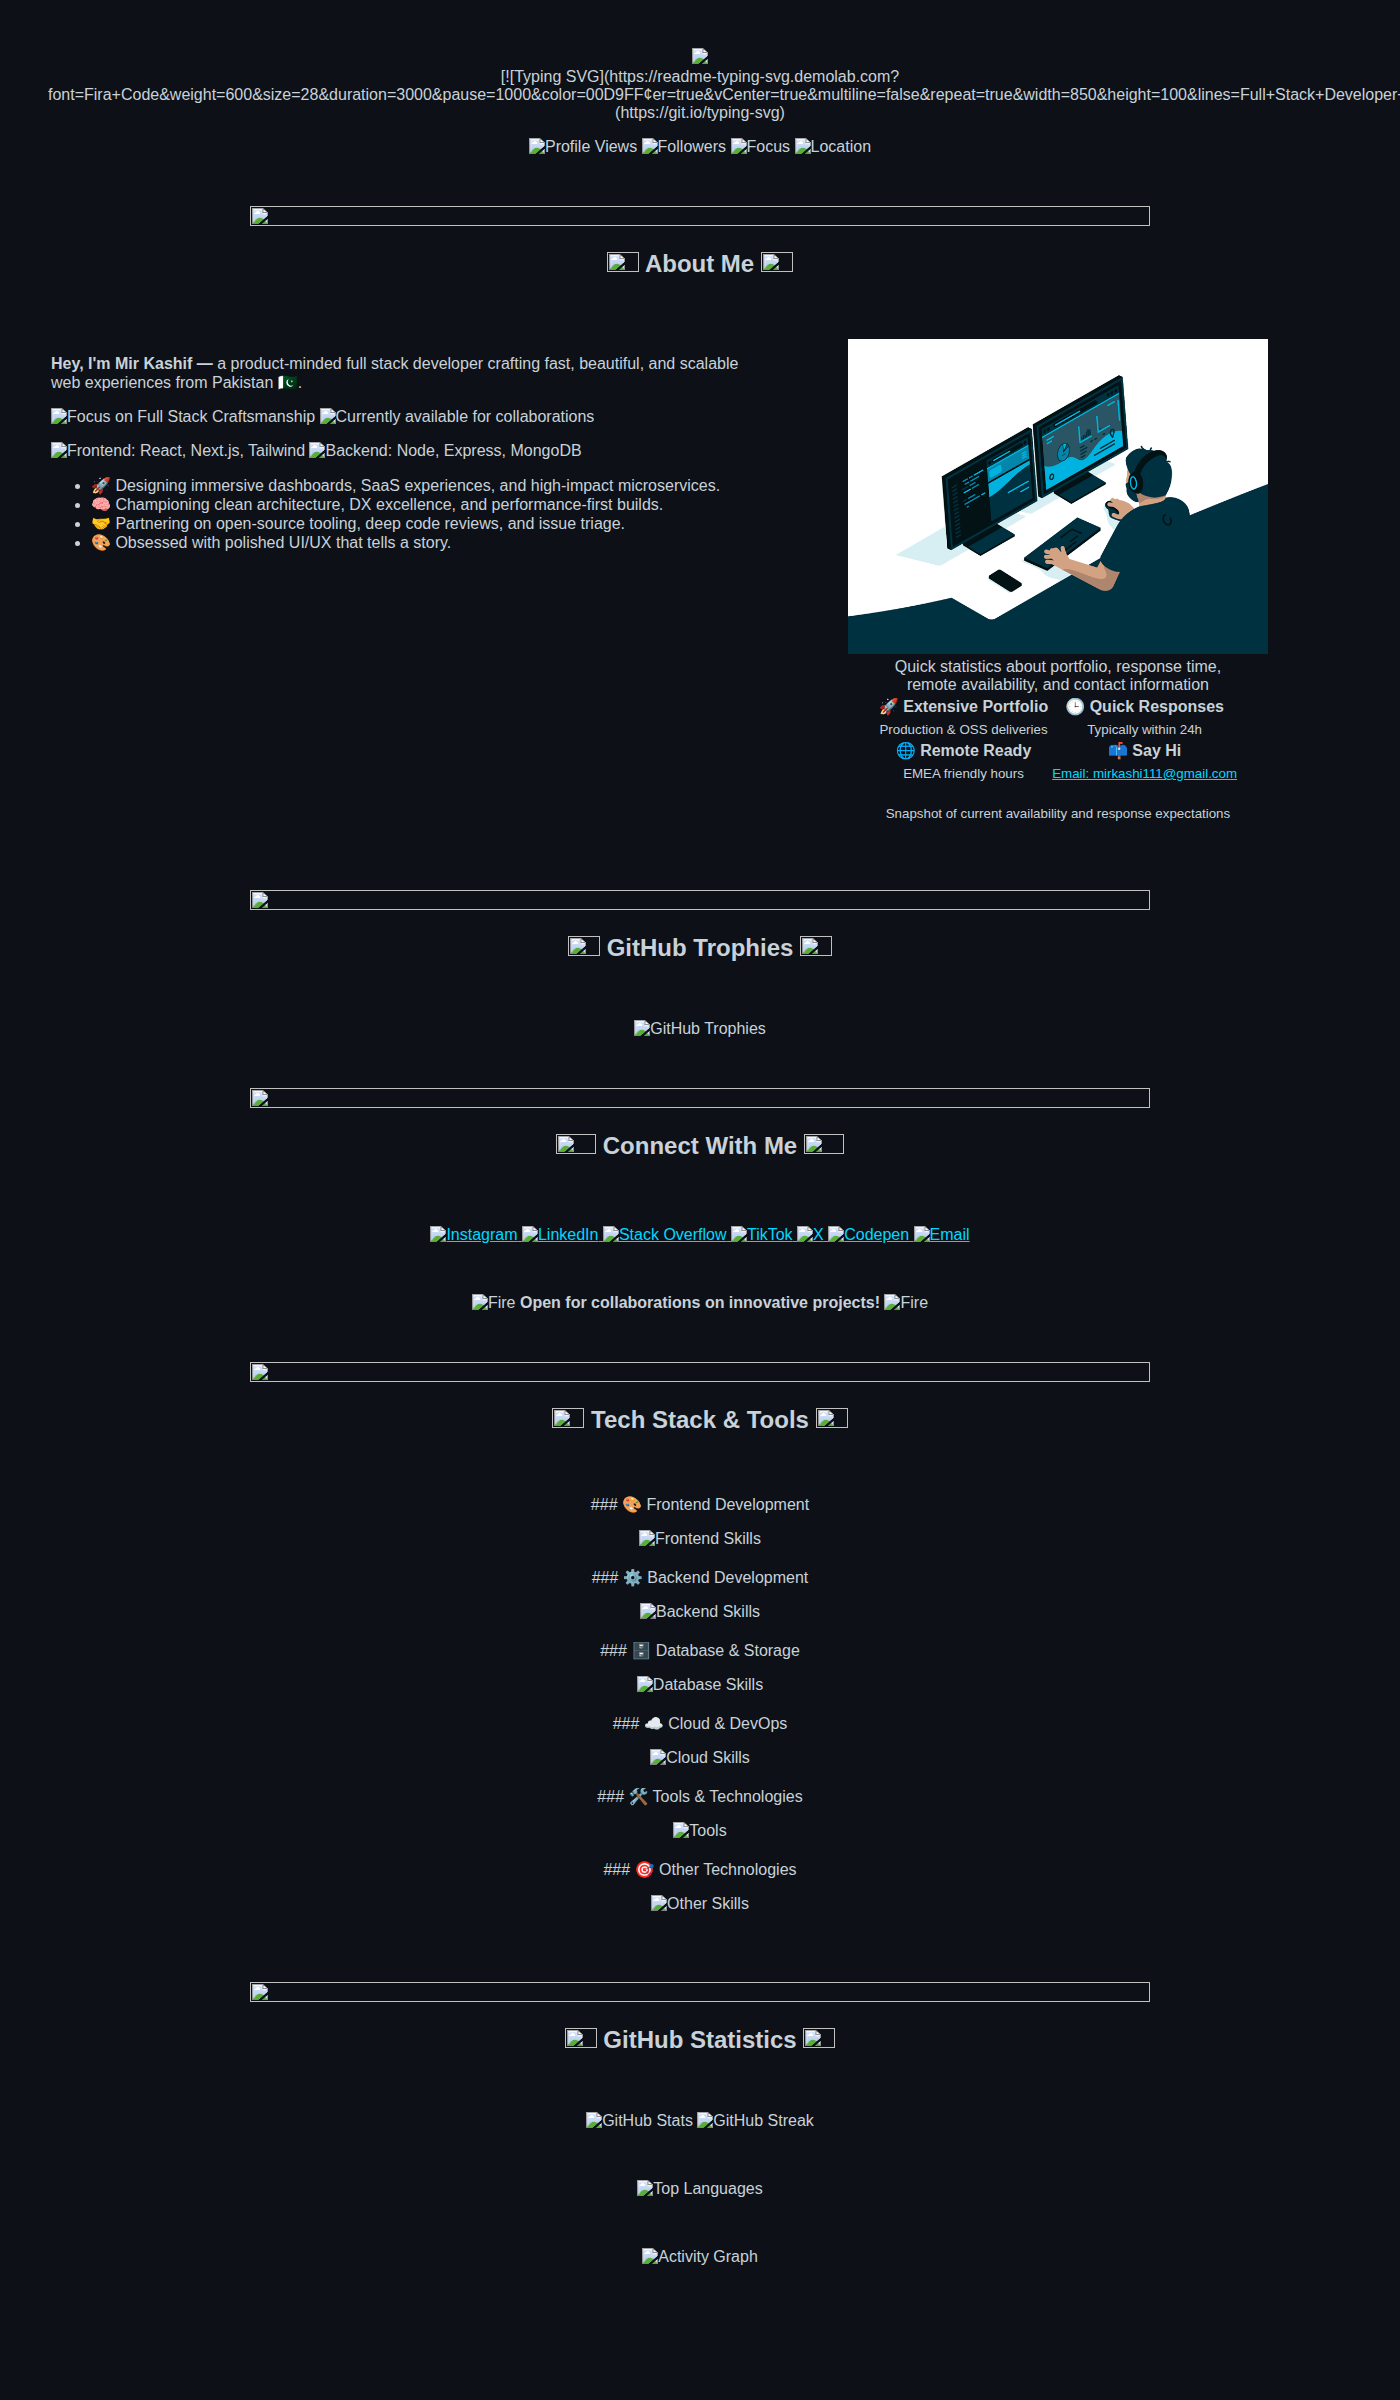
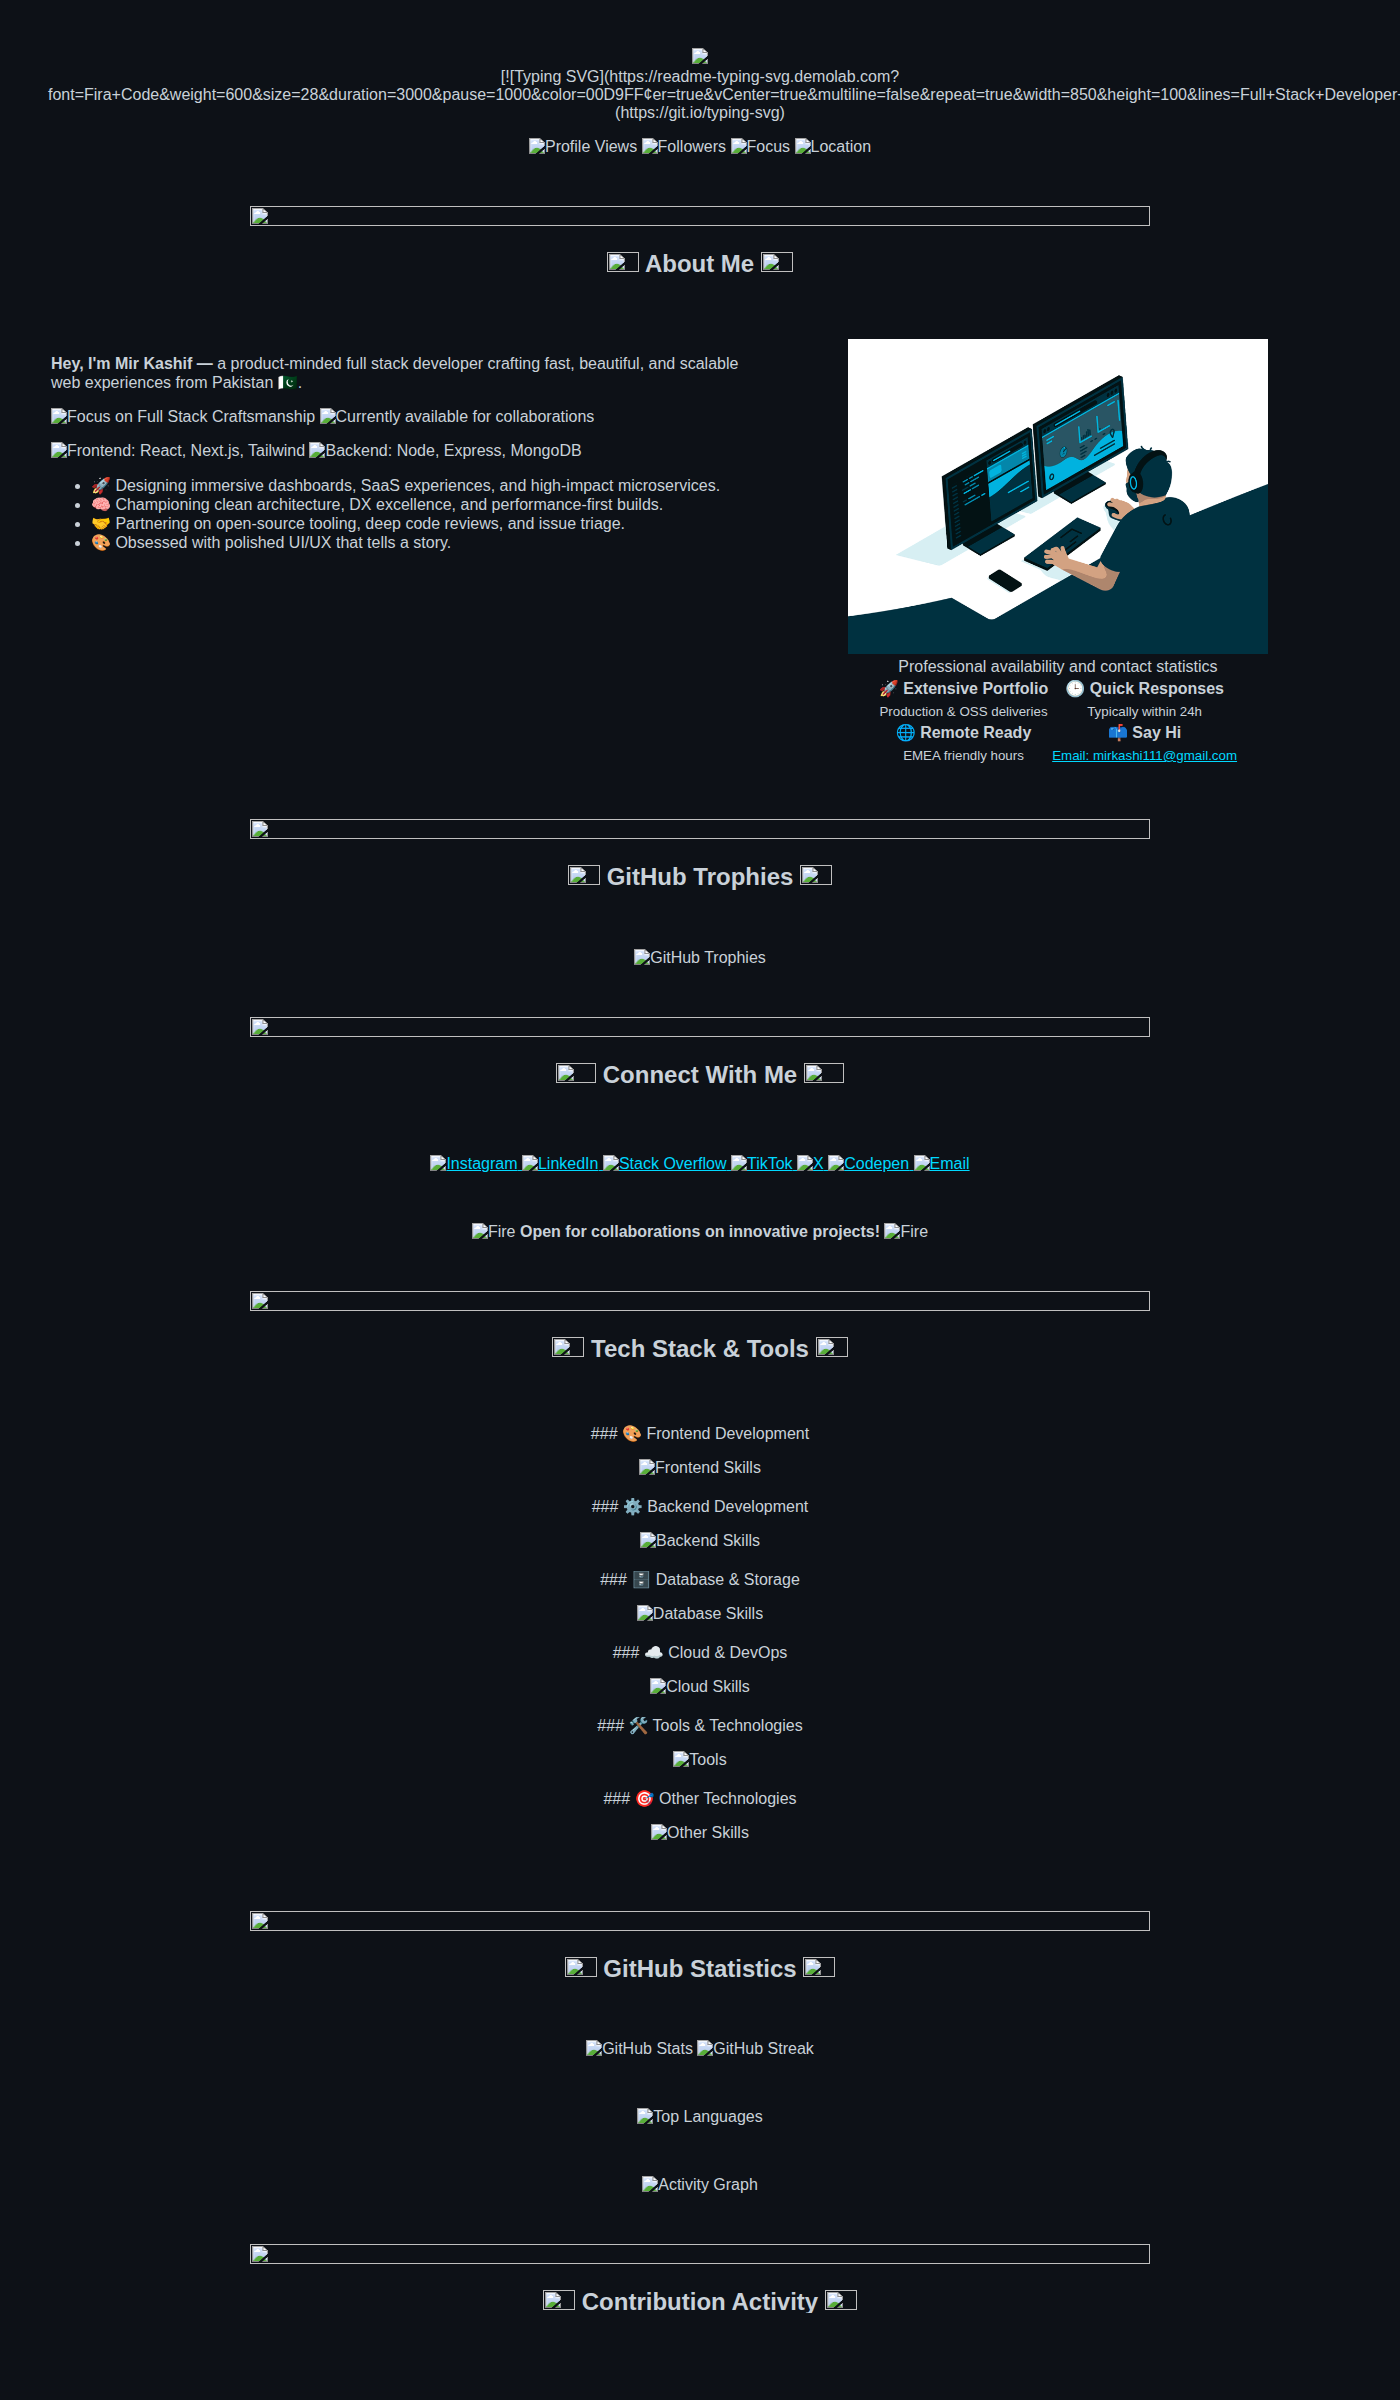
chore: tighten quick stats caption

Changed region(s): [[0.3071, 0.3438, 0.6757, 0.9688], [0.6143, 0.25, 0.8907, 0.3438]]

diff --git a/README.md b/README.md
@@ -60,7 +60,7 @@
     <td width="45%" valign="top" align="center">
       <img alt="Developer coding animation" width="420" src="./assets/coding.gif">
       <table>
-        <caption>Quick statistics about portfolio, response time, remote availability, and contact information</caption>
+        <caption>Professional availability and contact statistics</caption>
         <tr>
           <td align="center">
             <b>🚀 Extensive Portfolio</b><br/><sub>Production & OSS deliveries</sub>
@@ -78,7 +78,6 @@
           </td>
         </tr>
       </table>
-      <p><sub>Snapshot of current availability and response expectations</sub></p>
     </td>
   </tr>
 </table>
